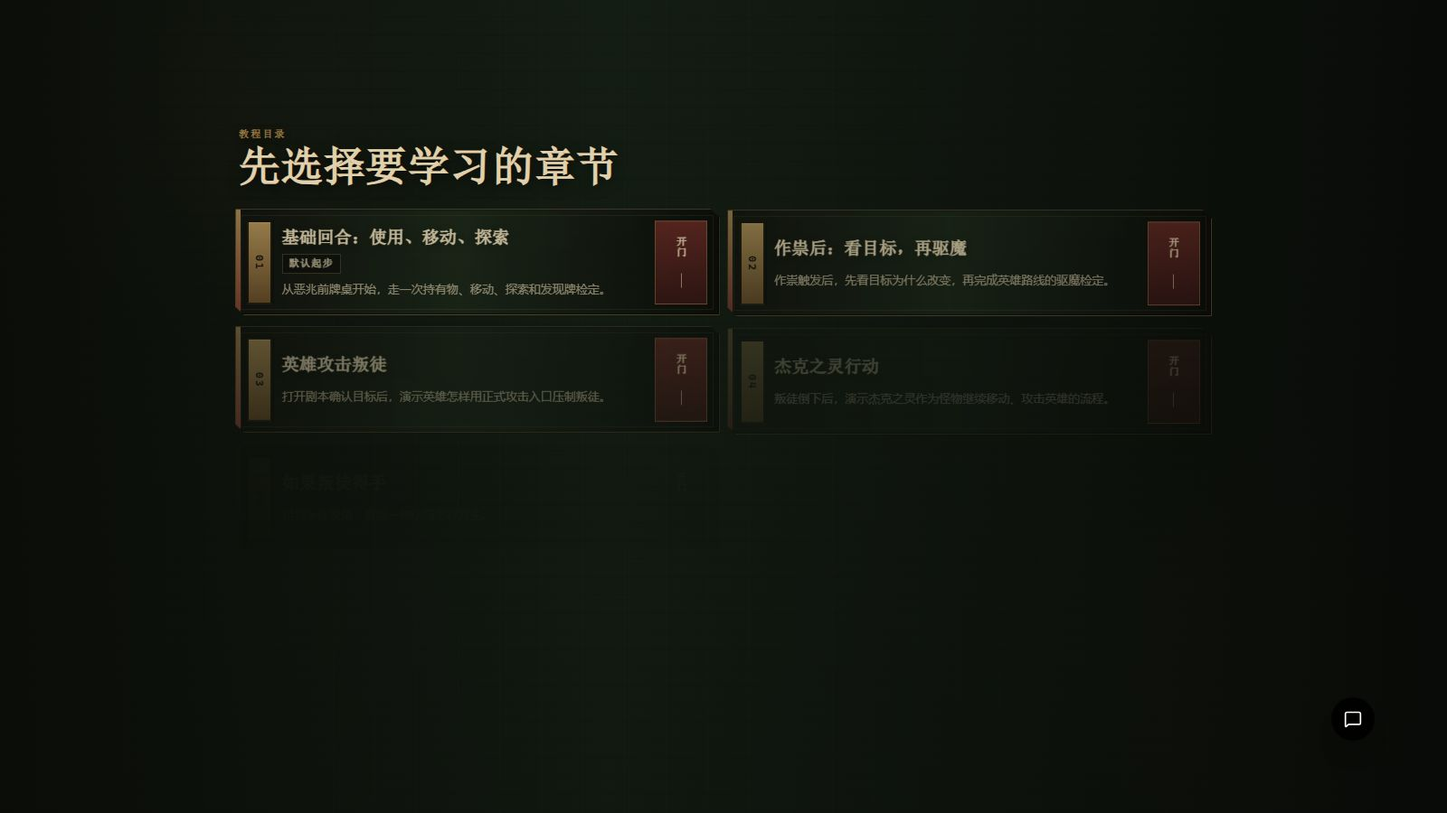
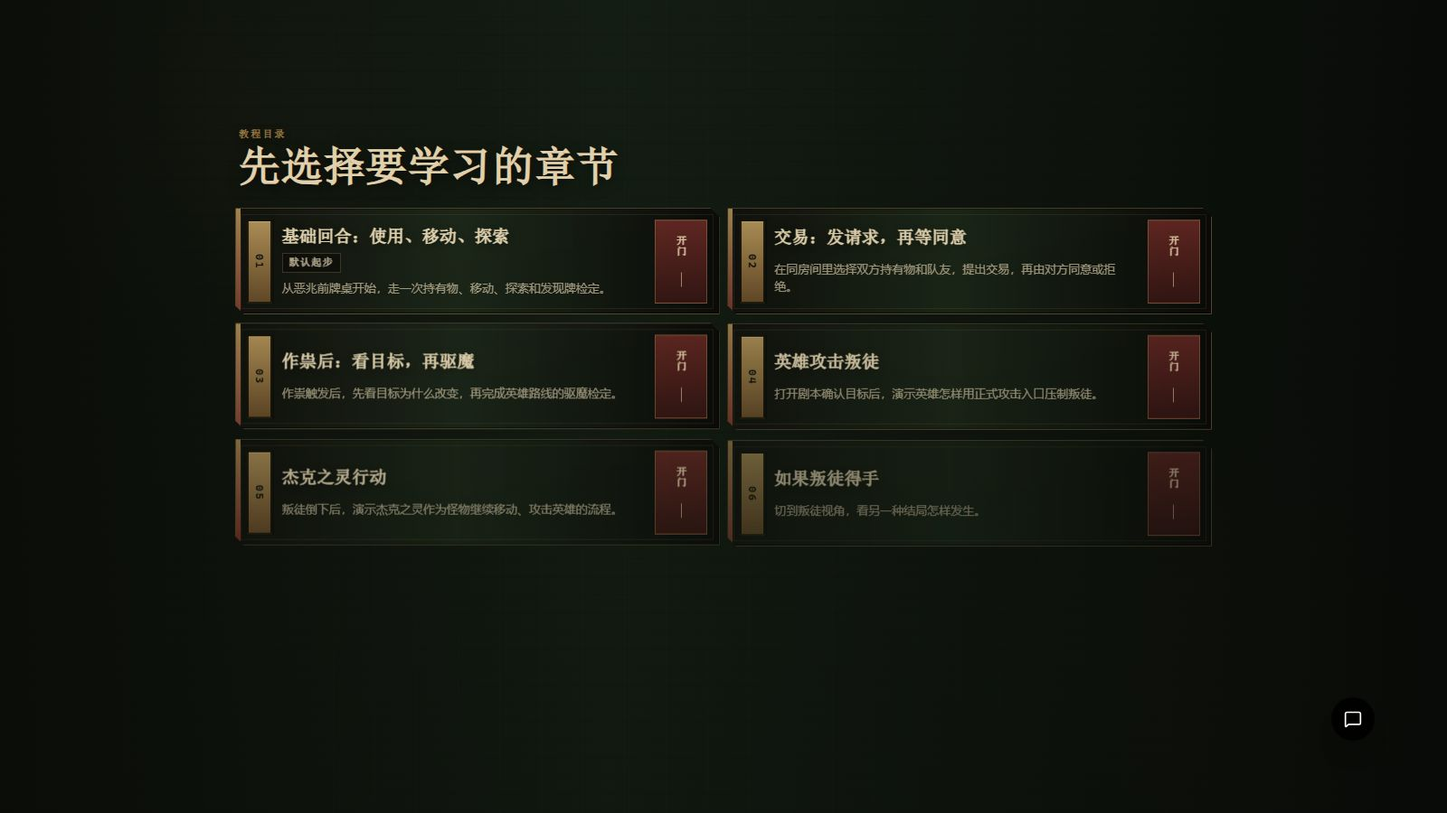
同步山屋惊魂交易口径与七大恨测试夹具
- 山屋惊魂交易流程、教程 E2E、单测断言统一为提出交易/对方给出口径

- 更新核心交互与教程 evidence 截图，并同步 i18n 资源清单

- 七大恨选择类单测显式固定剧本并跳过开局选择

Changed region(s): [[0.1562, 0.2489, 0.8438, 0.6844], [0.7812, 0.2489, 0.8438, 0.28]]

diff --git a/e2e/betrayal/first-scenario-trade-interaction.e2e.ts b/e2e/betrayal/first-scenario-trade-interaction.e2e.ts
@@ -19,7 +19,7 @@ const TRADE_INITIAL_SCREENSHOT = `${EVIDENCE_DIR}/01-交易前牌桌可操作.jp
 const TRADE_ITEM_SELECTED_SCREENSHOT = `${EVIDENCE_DIR}/02-物品兔脚本体已选中.jpg`;
 const TRADE_TARGET_SELECTED_SCREENSHOT = `${EVIDENCE_DIR}/03-地图队友目标已选中.jpg`;
 const TRADE_CONFIRM_READY_SCREENSHOT = `${EVIDENCE_DIR}/04-确认交易前.jpg`;
-const TRADE_REQUEST_SENT_SCREENSHOT = `${EVIDENCE_DIR}/05-发送交易请求等待同意.jpg`;
+const TRADE_REQUEST_SENT_SCREENSHOT = `${EVIDENCE_DIR}/05-提出交易等待同意.jpg`;
 const TRADE_AGREEMENT_INCOMING_SCREENSHOT = `${EVIDENCE_DIR}/06-接收方同意交易前.jpg`;
 const TRADE_SETTLED_SCREENSHOT = `${EVIDENCE_DIR}/07-交易结算结果可见.jpg`;
 const TRADE_RETURNED_SCREENSHOT = `${EVIDENCE_DIR}/08-交易后回牌桌状态清空.jpg`;
@@ -403,7 +403,7 @@ async function assertTradeCandidateTrayAnchoredToFlow(page: Page, selectorTestId
     expect(metrics!.selectorTop, `${selectorTestId} 不能放到顶部角落或牌堆旁`).toBeGreaterThan(metrics!.viewportHeight * 0.52);
     expect(metrics!.selectorBottom, `${selectorTestId} 必须贴在交易流程条上方`).toBeLessThanOrEqual(metrics!.bannerTop + 4);
     expect(Math.abs(metrics!.selectorCenterX - metrics!.bannerCenterX), `${selectorTestId} 必须和交易流程条水平对齐`).toBeLessThanOrEqual(120);
-    expect(metrics!.topPromptText, `${selectorTestId} 不得再出现在顶部提示带`).not.toContain('换回');
+    expect(metrics!.topPromptText, `${selectorTestId} 不得再出现在顶部提示带`).not.toContain('对方物品');
     expect(metrics!.topPromptText, `${selectorTestId} 不得再出现在顶部提示带`).not.toContain('狗');
 }
 
@@ -640,7 +640,7 @@ test.describe('山屋惊魂首剧本交易交互', () => {
         await assertNoFatalFrontendErrors([{ label: 'betrayal-trade-interaction', diagnostics }]);
     });
 
-    test('真实页面未选择换回时一个确认按钮即可发送交易请求', async ({ page, context }) => {
+    test('真实页面只选择己方物品时一个确认按钮即可提出交易', async ({ page, context }) => {
         test.setTimeout(180000);
         await initBetrayalContext(context);
         const diagnostics = attachPageDiagnostics(page, 'betrayal-no-return-trade-interaction');
@@ -656,13 +656,13 @@ test.describe('山屋惊魂首剧本交易交互', () => {
 
         await page.getByTestId('betrayal-inventory-rope').click();
         await page.getByTestId('betrayal-room-occupant-hallway-1').click();
-        await expect(page.getByTestId('betrayal-trade-return-selector'), '选中队友后可选换回区必须出现').toBeVisible();
+        await expect(page.getByTestId('betrayal-trade-return-selector'), '选中队友后对方持有物区必须出现').toBeVisible();
         await assertTradeCandidateTrayAnchoredToFlow(page, 'betrayal-trade-return-selector');
-        await expect(page.getByTestId('betrayal-trade-return-skip'), '不换回不能做成与地图、头骨并列的伪候选按钮').toHaveCount(0);
-        await expect(page.getByTestId('betrayal-trade-return-card-map'), '换回区必须只展示真实对方持有物卡牌').toBeVisible();
-        await expect(page.getByTestId('betrayal-trade-return-card-skull'), '换回区必须只展示真实对方持有物卡牌').toBeVisible();
-        await expect(page.getByTestId('betrayal-trade-flow-item-step'), '不点换回卡时摘要必须明确是不换回').toContainText(/给出.*兔脚.*不换回/);
-        await expect(page.getByTestId('betrayal-action-trade'), '不选换回时，一个发送交易请求按钮就必须足够').toBeEnabled();
+        await expect(page.getByTestId('betrayal-trade-return-skip'), '空选择不能做成与地图、头骨并列的伪候选按钮').toHaveCount(0);
+        await expect(page.getByTestId('betrayal-trade-return-card-map'), '对方持有物区必须只展示真实对方持有物卡牌').toBeVisible();
+        await expect(page.getByTestId('betrayal-trade-return-card-skull'), '对方持有物区必须只展示真实对方持有物卡牌').toBeVisible();
+        await expect(page.getByTestId('betrayal-trade-flow-item-step'), '未选对方物品时摘要只需要列出己方给出物').toContainText(/你给出.*兔脚/);
+        await expect(page.getByTestId('betrayal-action-trade'), '只选择己方物品时，一个提出交易按钮就必须足够').toBeEnabled();
         await assertTradeConfirmAnchoredToFlow(page);
         await saveScreenshot(page, NO_RETURN_TARGET_SELECTED_SCREENSHOT);
 
@@ -696,7 +696,7 @@ test.describe('山屋惊魂首剧本交易交互', () => {
                 rejected: holder.__BG_LAST_COMMAND_REJECTED__ ?? null,
             };
         }), {
-            message: '不选换回卡时，发送请求必须保留空换回数组，不能强迫选择对方物品',
+            message: '只选择己方物品时，请求必须保留空对方物品数组，不能强迫选择对方物品',
             timeout: 10000,
         }).toMatchObject({
             currentInventory: expect.arrayContaining(['兔脚', '书本']),
@@ -708,8 +708,8 @@ test.describe('山屋惊魂首剧本交易交互', () => {
             latestLog: expect.stringMatching(/同意|交易请求|兔脚/),
             rejected: null,
         });
-        await expect(page.getByTestId('betrayal-trade-flow-item-step'), '接收方同意前也必须看到不换回摘要').toContainText(/给出.*兔脚.*不换回/);
-        await expect(page.getByTestId('betrayal-trade-agreement-panel'), '不换回交易仍必须进入接收方同意面板').toBeVisible();
+        await expect(page.getByTestId('betrayal-trade-flow-item-step'), '接收方同意前也必须看到只列己方给出的摘要').toContainText(/你给出.*兔脚/);
+        await expect(page.getByTestId('betrayal-trade-agreement-panel'), '只选择己方物品的交易仍必须进入接收方同意面板').toBeVisible();
         await saveScreenshot(page, NO_RETURN_REQUEST_SENT_SCREENSHOT);
 
         await page.getByTestId('betrayal-trade-agreement-accept').click();
@@ -755,7 +755,7 @@ test.describe('山屋惊魂首剧本交易交互', () => {
         await assertNoFatalFrontendErrors([{ label: 'betrayal-no-return-trade-interaction', diagnostics }]);
     });
 
-    test('真实页面允许不交出物品只索要对方持有物并等待同意', async ({ page, context }) => {
+    test('真实页面允许只选择对方持有物并等待同意', async ({ page, context }) => {
         test.setTimeout(180000);
         await initBetrayalContext(context);
         const diagnostics = attachPageDiagnostics(page, 'betrayal-request-only-trade-interaction');
@@ -770,17 +770,17 @@ test.describe('山屋惊魂首剧本交易交互', () => {
         await waitForTradeInventoryAtlas(page);
 
         await page.getByTestId('betrayal-room-occupant-hallway-1').click();
-        await expect(page.getByTestId('betrayal-trade-return-selector'), '只索要时也必须先显示对方可给出的真实持有物').toBeVisible();
+        await expect(page.getByTestId('betrayal-trade-return-selector'), '只选择对方物品时也必须先显示对方可给出的真实持有物').toBeVisible();
         await assertTradeCandidateTrayAnchoredToFlow(page, 'betrayal-trade-return-selector');
-        await expect(page.getByTestId('betrayal-trade-flow-item-step'), '只选队友但未选任何持有物时不能形成空交易请求').toContainText(/选给出或换回|选给出或索要|选/);
-        await expect(page.locator('[data-testid="betrayal-action-trade"][data-trade-confirm-placement="flow-banner"]'), '双方都没选持有物时不能出现流程条内发送请求确认').toHaveCount(0);
+        await expect(page.getByTestId('betrayal-trade-flow-item-step'), '只选队友但未选任何持有物时不能形成空交易请求').toContainText(/选择自己或对方持有物|选择/);
+        await expect(page.locator('[data-testid="betrayal-action-trade"][data-trade-confirm-placement="flow-banner"]'), '双方都没选持有物时不能出现流程条内提出交易确认').toHaveCount(0);
         await saveScreenshot(page, REQUEST_ONLY_TARGET_SELECTED_SCREENSHOT);
 
         await page.getByTestId('betrayal-trade-return-card-map').click();
-        await expect(page.getByTestId('betrayal-trade-flow-item-step'), '只选对方物品时摘要必须写成索要，不能写给出无').toContainText(/索要.*地图/);
-        await expect(page.getByTestId('betrayal-trade-flow-item-step')).not.toContainText('给出 不交出');
-        await expect(page.getByTestId('betrayal-trade-return-card-map-selected-outline'), '索要地图选中后必须在卡牌本体上显示金色外框').toBeVisible();
-        await expect(page.getByTestId('betrayal-action-trade'), '只索要对方物品时必须能发送交易请求').toBeEnabled();
+        await expect(page.getByTestId('betrayal-trade-flow-item-step'), '只选对方物品时摘要必须写成对方给出，不能写成模式名').toContainText(/对方给出.*地图/);
+        await expect(page.getByTestId('betrayal-trade-flow-item-step')).not.toContainText('你给出 无');
+        await expect(page.getByTestId('betrayal-trade-return-card-map-selected-outline'), '选择对方地图后必须在卡牌本体上显示金色外框').toBeVisible();
+        await expect(page.getByTestId('betrayal-action-trade'), '只选择对方物品时必须能提出交易').toBeEnabled();
         await assertTradeConfirmAnchoredToFlow(page);
         await saveScreenshot(page, REQUEST_ONLY_CARD_SELECTED_SCREENSHOT);
 
@@ -814,7 +814,7 @@ test.describe('山屋惊魂首剧本交易交互', () => {
                 rejected: holder.__BG_LAST_COMMAND_REJECTED__ ?? null,
             };
         }), {
-            message: '只索要时请求必须保留 cardIds=[]、targetCardIds=[map]，并等待对方同意',
+            message: '只选择对方物品时请求必须保留 cardIds=[]、targetCardIds=[map]，并等待对方同意',
             timeout: 10000,
         }).toMatchObject({
             currentInventory: expect.arrayContaining(['兔脚', '书本']),
@@ -823,11 +823,11 @@ test.describe('山屋惊魂首剧本交易交互', () => {
             pendingTarget: '1',
             pendingCards: [],
             pendingReturnCards: ['map'],
-            latestLog: expect.stringMatching(/索要地图/),
+            latestLog: expect.stringMatching(/给出地图/),
             rejected: null,
         });
-        await expect(page.getByTestId('betrayal-trade-flow-item-step'), '接收方同意前必须看到索要摘要').toContainText(/索要.*地图/);
-        await expect(page.getByTestId('betrayal-trade-agreement-panel'), '索要交易仍必须进入接收方同意面板').toBeVisible();
+        await expect(page.getByTestId('betrayal-trade-flow-item-step'), '接收方同意前必须看到对方给出摘要').toContainText(/你给出.*地图/);
+        await expect(page.getByTestId('betrayal-trade-agreement-panel'), '只选择对方物品的交易仍必须进入接收方同意面板').toBeVisible();
         await saveScreenshot(page, REQUEST_ONLY_REQUEST_SENT_SCREENSHOT);
 
         await page.getByTestId('betrayal-trade-agreement-accept').click();
@@ -865,7 +865,7 @@ test.describe('山屋惊魂首剧本交易交互', () => {
             teammateInventory: expect.arrayContaining(['头骨']),
             activePlayerId: null,
             pendingTradeAgreement: null,
-            latestLog: expect.stringMatching(/同意交易|索要地图/),
+            latestLog: expect.stringMatching(/同意交易|给出地图/),
             rejected: null,
         });
         await saveScreenshot(page, REQUEST_ONLY_SETTLED_SCREENSHOT);
@@ -873,7 +873,7 @@ test.describe('山屋惊魂首剧本交易交互', () => {
         await assertNoFatalFrontendErrors([{ label: 'betrayal-request-only-trade-interaction', diagnostics }]);
     });
 
-    test('真实页面可选择换回持有物并完成同意交换', async ({ page, context }) => {
+    test('真实页面可选择双方持有物并完成同意交易', async ({ page, context }) => {
         test.setTimeout(180000);
         await initBetrayalContext(context);
         const diagnostics = attachPageDiagnostics(page, 'betrayal-exchange-interaction');
@@ -897,26 +897,26 @@ test.describe('山屋惊魂首剧本交易交互', () => {
         await page.getByTestId('betrayal-inventory-rope').click();
         await assertSelectedInventoryCardHasVisibleOutline(page);
         await page.getByTestId('betrayal-room-occupant-hallway-1').click();
-        await expect(page.getByTestId('betrayal-trade-return-selector'), '选中队友后必须显示换回选择区').toBeVisible();
+        await expect(page.getByTestId('betrayal-trade-return-selector'), '选中队友后必须显示对方持有物区').toBeVisible();
         await assertTradeCandidateTrayAnchoredToFlow(page, 'betrayal-trade-return-selector');
-        await expect(page.getByTestId('betrayal-trade-return-skip'), '不换回不是一个候选按钮，没选对方持有物就表示不换回').toHaveCount(0);
-        await expect(page.getByTestId('betrayal-trade-return-card-map'), '队友地图必须能作为换回对象选择').toBeVisible();
-        await expect(page.getByTestId('betrayal-trade-return-card-skull'), '队友头骨必须能作为换回对象选择').toBeVisible();
+        await expect(page.getByTestId('betrayal-trade-return-skip'), '空选择不是一个候选按钮，没选对方持有物就只提交己方已选内容').toHaveCount(0);
+        await expect(page.getByTestId('betrayal-trade-return-card-map'), '队友地图必须能作为对方给出的对象选择').toBeVisible();
+        await expect(page.getByTestId('betrayal-trade-return-card-skull'), '队友头骨必须能作为对方给出的对象选择').toBeVisible();
         await assertInventoryCandidateCardRendered(page, 'betrayal-trade-return-card-map');
         await assertInventoryCandidateCardRendered(page, 'betrayal-trade-return-card-skull');
-        await expect(page.getByTestId('betrayal-trade-flow-item-step'), '未选换回前也要显示不换回，说明这是普通交易').toContainText('不换回');
+        await expect(page.getByTestId('betrayal-trade-flow-item-step'), '未选对方物品前，摘要只显示己方给出物').toContainText(/你给出.*兔脚/);
         await saveScreenshot(page, EXCHANGE_TARGET_SELECTED_SCREENSHOT);
 
         await page.getByTestId('betrayal-trade-return-card-map').click();
-        await expect(page.getByTestId('betrayal-trade-flow-item-step'), '选择换回后交易摘要必须同时显示给出和换回').toContainText(/给出.*兔脚.*换回.*地图/);
-        await expect(page.getByTestId('betrayal-trade-return-card-map-selected-outline'), '换回地图选中后必须在卡牌本体上显示金色外框').toBeVisible();
+        await expect(page.getByTestId('betrayal-trade-flow-item-step'), '选择对方物品后交易摘要必须同时显示双方给出物').toContainText(/你给出.*兔脚.*对方给出.*地图/);
+        await expect(page.getByTestId('betrayal-trade-return-card-map-selected-outline'), '选择对方地图后必须在卡牌本体上显示金色外框').toBeVisible();
         await page.getByTestId('betrayal-trade-return-card-map').click();
-        await expect(page.getByTestId('betrayal-trade-return-card-map-selected-outline'), '再次点击地图必须能取消换回选择').toHaveCount(0);
-        await expect(page.getByTestId('betrayal-trade-flow-item-step'), '取消换回选择后摘要回到不换回').toContainText(/给出.*兔脚.*不换回/);
+        await expect(page.getByTestId('betrayal-trade-return-card-map-selected-outline'), '再次点击地图必须能取消对方物品选择').toHaveCount(0);
+        await expect(page.getByTestId('betrayal-trade-flow-item-step'), '取消对方物品选择后摘要回到只列己方给出物').toContainText(/你给出.*兔脚/);
         await page.getByTestId('betrayal-trade-return-card-map').click();
-        await expect(page.getByTestId('betrayal-trade-flow-item-step'), '重新选择地图后交易摘要必须回到给出和换回').toContainText(/给出.*兔脚.*换回.*地图/);
-        await expect(page.getByTestId('betrayal-trade-flow-steps'), '流程短标签必须显示换回步骤').toContainText('换回');
-        await expect(page.getByTestId('betrayal-action-trade'), '选给出和换回后必须能发送交易请求').toBeEnabled();
+        await expect(page.getByTestId('betrayal-trade-flow-item-step'), '重新选择地图后交易摘要必须回到双方给出物').toContainText(/你给出.*兔脚.*对方给出.*地图/);
+        await expect(page.getByTestId('betrayal-trade-flow-steps'), '流程短标签必须显示对方物品步骤').toContainText('对方物品');
+        await expect(page.getByTestId('betrayal-action-trade'), '选双方物品后必须能提出交易').toBeEnabled();
         await assertTradeConfirmAnchoredToFlow(page);
         await saveScreenshot(page, EXCHANGE_RETURN_SELECTED_SCREENSHOT);
 
@@ -950,7 +950,7 @@ test.describe('山屋惊魂首剧本交易交互', () => {
                 rejected: holder.__BG_LAST_COMMAND_REJECTED__ ?? null,
             };
         }), {
-            message: '交换请求发出后必须等待接收方同意，双方持有物暂不转移',
+            message: '交易请求发出后必须等待接收方同意，双方持有物暂不转移',
             timeout: 10000,
         }).toMatchObject({
             currentInventory: expect.arrayContaining(['兔脚', '书本']),
@@ -963,10 +963,10 @@ test.describe('山屋惊魂首剧本交易交互', () => {
             rejected: null,
         });
         await expect(page.getByTestId('betrayal-room-latest-feedback')).toContainText(/同意|交易请求|兔脚|地图/);
-        await expect(page.getByTestId('betrayal-trade-agreement-panel'), '交换接收方必须看到同意面板').toBeVisible();
-        await expect(page.getByTestId('betrayal-trade-agreement-accept'), '交换接收方必须能同意').toBeVisible();
-        await expect(page.getByTestId('betrayal-trade-agreement-decline'), '交换接收方必须能拒绝').toBeVisible();
-        await expect(page.getByTestId('betrayal-trade-flow-item-step'), '接收方同意前必须看到给出和换回摘要').toContainText(/给出.*兔脚.*换回.*地图/);
+        await expect(page.getByTestId('betrayal-trade-agreement-panel'), '交易接收方必须看到同意面板').toBeVisible();
+        await expect(page.getByTestId('betrayal-trade-agreement-accept'), '交易接收方必须能同意').toBeVisible();
+        await expect(page.getByTestId('betrayal-trade-agreement-decline'), '交易接收方必须能拒绝').toBeVisible();
+        await expect(page.getByTestId('betrayal-trade-flow-item-step'), '接收方同意前必须看到双方给出物摘要').toContainText(/给出.*兔脚.*给出.*地图/);
         await saveScreenshot(page, EXCHANGE_REQUEST_SENT_SCREENSHOT);
         await saveScreenshot(page, EXCHANGE_AGREEMENT_INCOMING_SCREENSHOT);
 
@@ -1008,12 +1008,12 @@ test.describe('山屋惊魂首剧本交易交互', () => {
             latestLog: expect.stringMatching(/同意交易|兔脚|地图/),
             rejected: null,
         });
-        await expect(page.getByTestId('betrayal-inventory-rope'), '交换后兔脚应从发起方持有区消失').toHaveCount(0);
+        await expect(page.getByTestId('betrayal-inventory-rope'), '交易后兔脚应从发起方持有区消失').toHaveCount(0);
         await expect(page.getByTestId('betrayal-room-latest-feedback')).toContainText(/同意交易|兔脚|地图/);
         await saveScreenshot(page, EXCHANGE_SETTLED_SCREENSHOT);
         await assertTradeSelectionClearedAfterSettlement(page);
-        await expect(page.getByTestId('betrayal-trade-return-selector'), '交换结算后换回选择区必须退场').toHaveCount(0);
-        await expect(page.getByTestId('betrayal-board'), '交换结算后必须回到可操作牌桌').toBeVisible();
+        await expect(page.getByTestId('betrayal-trade-return-selector'), '交易结算后对方持有物区必须退场').toHaveCount(0);
+        await expect(page.getByTestId('betrayal-board'), '交易结算后必须回到可操作牌桌').toBeVisible();
         await saveScreenshot(page, EXCHANGE_RETURNED_SCREENSHOT);
 
         await assertNoFatalFrontendErrors([{ label: 'betrayal-exchange-interaction', diagnostics }]);
@@ -1050,7 +1050,7 @@ test.describe('山屋惊魂首剧本交易交互', () => {
         await page.getByTestId('betrayal-room-occupant-upper-landing-1').click();
         await expect(page.getByTestId('betrayal-trade-status'), '选中远距队友后必须进入可交易给该玩家的状态').toContainText('可交易给');
         await expect(page.getByTestId('betrayal-trade-status')).toContainText(TRADE_TARGET_NAME_PATTERN);
-        await expect(page.getByTestId('betrayal-trade-flow-target-step'), '确认前必须明确进入发送请求阶段').toContainText('发送交易请求');
+        await expect(page.getByTestId('betrayal-trade-flow-target-step'), '确认前必须明确进入提出交易阶段').toContainText('提出交易');
         await expect(page.getByTestId('betrayal-action-trade'), '狗交易确认按钮必须可点').toBeEnabled();
         await assertTradeConfirmAnchoredToFlow(page);
         await saveScreenshot(page, DOG_TRADE_TARGET_SELECTED_SCREENSHOT);

diff --git a/e2e/betrayal/betrayal-tutorial.e2e.ts b/e2e/betrayal/betrayal-tutorial.e2e.ts
@@ -46,7 +46,7 @@ const STEP_28 = `${EVIDENCE_DIR}/28-山屋惊魂-教程-杰克之灵攻击骰盘
 const STEP_29 = `${EVIDENCE_DIR}/29-山屋惊魂-教程-交易同房间说明.jpg`;
 const STEP_30 = `${EVIDENCE_DIR}/30-山屋惊魂-教程-交易选择兔脚.jpg`;
 const STEP_31 = `${EVIDENCE_DIR}/31-山屋惊魂-教程-交易选择队友.jpg`;
-const STEP_32 = `${EVIDENCE_DIR}/32-山屋惊魂-教程-交易选择换回地图.jpg`;
+const STEP_32 = `${EVIDENCE_DIR}/32-山屋惊魂-教程-交易选择对方地图.jpg`;
 const STEP_33 = `${EVIDENCE_DIR}/33-山屋惊魂-教程-交易请求等待同意.jpg`;
 const STEP_34 = `${EVIDENCE_DIR}/34-山屋惊魂-教程-交易接收方同意.jpg`;
 const STEP_35 = `${EVIDENCE_DIR}/35-山屋惊魂-教程-交易后互换结果.jpg`;
@@ -1001,7 +1001,7 @@ test.describe("山屋惊魂教程最小真实链路", () => {
     assertNoFatalFrontendErrors([{ label: "betrayal-tutorial", diagnostics }]);
   });
 
-  test("交易教程会选持有物、点同房间队友、选择换回物并等待接收方同意", async ({
+  test("交易教程会选双方持有物、点同房间队友并等待接收方同意", async ({
     page,
     context,
   }) => {
@@ -1074,7 +1074,7 @@ test.describe("山屋惊魂教程最小真实链路", () => {
     );
     await expect(
       page.getByTestId("betrayal-trade-return-skip"),
-      "不换回不是候选按钮；没点换回卡时摘要和发送按钮承接空选择",
+      "空选择不是候选按钮；没点对方卡时摘要和提出交易按钮承接当前选择",
     ).toHaveCount(0);
     await expect(
       page.getByTestId("betrayal-trade-return-card-map"),
@@ -1092,23 +1092,23 @@ test.describe("山屋惊魂教程最小真实链路", () => {
     );
     await expect(
       page.getByTestId("betrayal-trade-flow-item-step"),
-      "未主动选择换回物时，交易摘要必须明确写“不换回”",
-    ).toContainText(/给出.*兔脚.*不换回/);
+      "未主动选择对方物品时，交易摘要只列己方给出物",
+    ).toContainText(/你给出.*兔脚/);
     await expect(
       page.getByTestId("betrayal-trade-flow-target-step"),
-    ).toContainText("发送交易请求");
+    ).toContainText("提出交易");
     await expectTradeConfirmAnchoredToFlow(page);
     await saveScreenshot(page, STEP_31);
 
     await clickNext(page);
     await waitForStep(page, "choose-trade-return");
     await expect(page.getByTestId("tutorial-overlay-card")).toContainText(
-      "换回",
+      "对方物品",
     );
     await page.getByTestId("betrayal-trade-return-card-map").click();
     await expect(
       page.getByTestId("betrayal-trade-flow-item-step"),
-    ).toContainText(/给出.*兔脚.*换回.*地图/);
+    ).toContainText(/你给出.*兔脚.*对方给出.*地图/);
     await expect(
       page.getByTestId("betrayal-trade-return-card-map-selected-outline"),
     ).toBeVisible();
@@ -1129,7 +1129,7 @@ test.describe("山屋惊魂教程最小真实链路", () => {
     ).toContainText("等待");
     await expect(
       page.getByTestId("betrayal-trade-flow-item-step"),
-    ).toContainText(/给出.*兔脚.*换回.*地图/);
+    ).toContainText(/你给出.*兔脚.*对方给出.*地图/);
     await expect(
       page.getByTestId("betrayal-trade-agreement-panel"),
     ).toHaveCount(0);
@@ -1145,7 +1145,7 @@ test.describe("山屋惊魂教程最小真实链路", () => {
     ).toBeVisible();
     await expect(
       page.getByTestId("betrayal-trade-flow-item-step"),
-    ).toContainText(/给出.*兔脚.*换回.*地图/);
+    ).toContainText(/给出.*兔脚.*你给出.*地图/);
     await expect(
       page.getByTestId("betrayal-trade-agreement-accept"),
     ).toBeVisible();

diff --git a/src/games/betrayal/__tests__/Board.foundation.test.tsx b/src/games/betrayal/__tests__/Board.foundation.test.tsx
@@ -1029,7 +1029,8 @@ describe('Betrayal Board foundation', () => {
         expect(screen.getByTestId('betrayal-trade-flow-banner')).toHaveAttribute('data-trade-agreement-state', 'waiting');
         expect(screen.getByTestId('betrayal-room-latest-feedback')).toHaveTextContent('同意用狗交易');
         expect(screen.getByTestId('betrayal-room-latest-feedback')).toHaveTextContent('给出急救包、地图');
-        expect(screen.getByTestId('betrayal-room-latest-feedback')).toHaveTextContent('不换回');
+        expect(screen.getByTestId('betrayal-room-latest-feedback')).not.toHaveTextContent('不换回');
+        expect(screen.getByTestId('betrayal-room-latest-feedback')).not.toHaveTextContent('换回');
     });
 
     it('搜尸必须在真实页面选择尸体和具体持有物，不能默认拿第一张', async () => {
@@ -1899,7 +1900,7 @@ describe('Betrayal Board foundation', () => {
 
         expect(screen.queryByTestId('betrayal-action-use')).not.toBeInTheDocument();
         expect(screen.getByTestId('betrayal-haunt-command-primary')).toHaveTextContent('拍摄队友二');
-        expect(screen.getByTestId('betrayal-action-cue')).toHaveTextContent('夺取队友二的 Essence');
+        expect(screen.getByTestId('betrayal-action-cue')).toHaveTextContent('夺取队友二的本质');
         expect(screen.getByTestId('betrayal-bottom-teammate-2')).toHaveTextContent('拍照');
         fireEvent.click(screen.getByTestId('betrayal-haunt-command-primary'));
 

diff --git a/src/games/qidahen/__tests__/feignedRetreatSelection.test.ts b/src/games/qidahen/__tests__/feignedRetreatSelection.test.ts
@@ -27,7 +27,7 @@ const getAttackerFactionId = (defenderFactionId: TestFactionId): TestFactionId =
 );
 
 const buildCore = (defenderFactionId: TestFactionId = 'jin'): QidahenCore => {
-    const core = createInitialCore(['0', '1', '2']);
+    const core = createInitialCore(['0', '1', '2'], 'post-sarhu-1619', true);
     const attackerFactionId = getAttackerFactionId(defenderFactionId);
     const defenderCard = core.handCards.find((card) => card.faction === defenderFactionId)!;
     core.currentPlayer = core.factions[attackerFactionId].playerId;

diff --git a/src/games/qidahen/__tests__/openGateSurrenderSelection.test.ts b/src/games/qidahen/__tests__/openGateSurrenderSelection.test.ts
@@ -40,7 +40,7 @@ const prepareCore = (
     jinCharacterCount: number,
     jinTroopCount: number,
 ): { core: QidahenCore; eventCard: QidahenHandCard } => {
-    const core = createInitialCore(['0', '1', '2']);
+    const core = createInitialCore(['0', '1', '2'], 'post-sarhu-1619', true);
     setInPlayCharacters(core, 'jin', jinCharacterCount);
     setInPlayCharacters(core, 'ming', 2);
     setInPlayCharacters(core, 'mongol', 2);

diff --git a/src/games/qidahen/__tests__/raidAndAmbushSelection.test.ts b/src/games/qidahen/__tests__/raidAndAmbushSelection.test.ts
@@ -21,7 +21,7 @@ const random: RandomFn = {
 };
 
 const buildCore = (): QidahenCore => {
-    const core = createInitialCore(['0', '1', '2']);
+    const core = createInitialCore(['0', '1', '2'], 'post-sarhu-1619', true);
     const mingCard = core.handCards.find((card) => card.faction === 'ming')!;
     const jinCard = core.handCards.find((card) => card.faction === 'jin')!;
     core.currentPlayer = '0';
